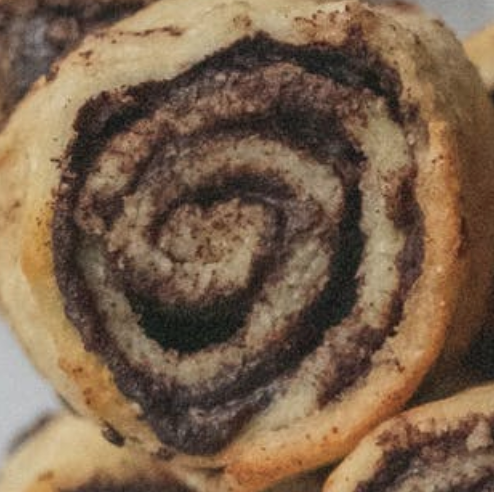
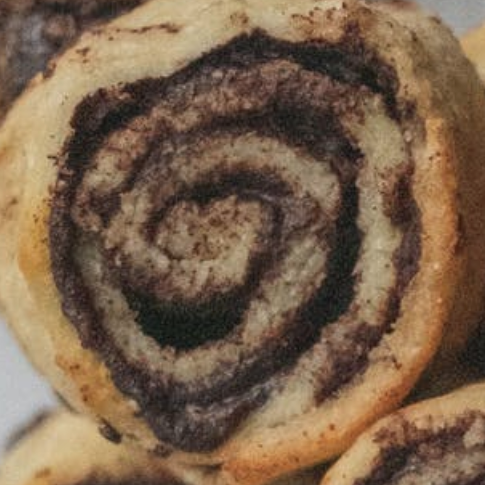
Added grid and formatting for browsing rolls, cropped single roll images to be squares in order to have perfect circle images of the rolls

diff --git a/homework_5/productbrowsing.html b/homework_5/productbrowsing.html
@@ -16,12 +16,12 @@
         <nav>
             <ul>
                 <li><a href="base.html"><img id="logo" src="images/logo.png" alt="shop_logo" height="60px"></a></li>
-                <li><a href="base.html">HOME</a></li>
-                <li id="selected_page"><a href="productbrowsing.html">SHOP ROLLS</a></li>
-                <li>ABOUT</li>
-                <li><img src="images/cart-icon.svg" alt="cart_icon" height="26px"></li>
+                <li class="nav_bar_options"><img src="images/cart-icon.svg" alt="cart_icon" height="26px"></li>
+                <li class="nav_bar_options">ABOUT</li>
+                <li class="nav_bar_options" id="selected_page"><a href="productbrowsing.html">SHOP ROLLS</a></li>
+                <li class="nav_bar_options"><a href="base.html">HOME</a></li>
             </ul>
-            <br>
+            <br><br>
         </nav>
 
         <header>
@@ -31,6 +31,51 @@
             <button type="button" id="dense_button" class="viewOptions">DENSE</button>
             <hr>
         </header>
+
+        <browsepage>
+            <div class="roll blackberry">
+                <br>
+                <img class="single_roll_image" src="images/main-close.png" alt="blackberry_roll">
+                <h3>THE BLACKBERRY</h3>
+                <h4>$6 <span class="price">PER ROLL</span></h4>
+            </div>
+
+            <div class="roll">
+                <br>
+                <img class="single_roll_image" src="images/main-close.png" alt="blackberry_roll">
+                <h3>THE BLACKBERRY</h3>
+                <h4>$6 <span class="price">PER ROLL</span></h4>
+            </div>
+
+            <div class="roll">
+                <br>
+                <img class="single_roll_image" src="images/main-close.png" alt="blackberry_roll">
+                <h3>THE BLACKBERRY</h3>
+                <h4>$6 <span class="price">PER ROLL</span></h4>
+            </div>
+
+            <div class="roll">
+                <br>
+                <img class="single_roll_image" src="images/main-close.png" alt="blackberry_roll">
+                <h3>THE BLACKBERRY</h3>
+                <h4>$6 <span class="price">PER ROLL</span></h4>
+            </div>
+
+            <div class="roll">
+                <br>
+                <img class="single_roll_image" src="images/main-close.png" alt="blackberry_roll">
+                <h3>THE BLACKBERRY</h3>
+                <h4>$6 <span class="price">PER ROLL</span></h4>
+            </div>
+
+            <div class="roll">
+                <br>
+                <img class="single_roll_image" src="images/main-close.png" alt="blackberry_roll">
+                <h3>THE BLACKBERRY</h3>
+                <h4>$6 <span class="price">PER ROLL</span></h4>
+            </div>
+
+        </browsepage>
     </div>
 </body>
 </html>

diff --git a/homework_5/style.css b/homework_5/style.css
@@ -8,9 +8,12 @@ html, body {
     margin: auto;
 }
 
+.nav_bar_options  {
+    float: right;
+}
+
 #logo {
     float: left;
-    margin-right: 700px;
 }
 
 #selected_page {
@@ -30,6 +33,7 @@ nav {
 ul {
     margin: 0;
     padding: 0;
+    background-color: #EEEE;
 }
 /* removes default display:block from list items so the navigation bar can be horizontal */
 ul li {
@@ -48,9 +52,15 @@ h1 {
     display: inline;
 }
 
-h2 {
+h2, h6 {
     font-weight: lighter;
     text-align: center;
+}
+
+h3 {
+    font-weight: bold;
+    text-align: center;
+    font-size: 30px;
 }
 
 header {
@@ -80,7 +90,7 @@ hr {
     margin-top: 50px;
     font-size: 53px;
     text-align: center;
-    font-family: Nunito;
+    font-family: Nunito, sans-serif;
     font-style: normal;
     font-variant: normal;
     float: right;
@@ -124,7 +134,7 @@ homepage {
     border: 1.5px solid black;
     text-align: center;
     padding: 2px 2px;
-    font-family: Nunito;
+    font-family: Nunito, sans-serif;
     float: right;
     margin-top: 30px;
 }
@@ -147,4 +157,29 @@ browsepage {
     justify-items: center;
     align-items: stretch;
     align-content: center;
+    grid-auto-rows: 1fr;
+    grid-auto-flow: column;
+}
+
+.single_roll_image {
+    width: 40%;
+    height: auto;
+    border: medium solid #B27338;
+    border-radius: 100%;
+    margn-top: 100px;
+}
+
+.price {
+    justify-content: space-between;
+    font-size: 15px;
+    font-weight: lighter;
+}
+
+.roll {
+    box-shadow: 0 3px 2px 0 rgba(0, 0, 0, 0.2);
+    background-color: #EEEE;
+    border: medium solid #A18484;
+    text-align: center;
+    padding: 5%;
+    border-radius: 40px;
 }

diff --git a/homework_5/base.html b/homework_5/base.html
@@ -16,12 +16,12 @@
         <nav>
             <ul>
                 <li><a href="base.html"><img id="logo" src="images/logo.png" alt="shop_logo" height="60px"></a></li>
-                <li id="selected_page"><a href="base.html">HOME</a></li>
-                <li><a href="productbrowsing.html">SHOP ROLLS</a></li>
-                <li>ABOUT</li>
-                <li><img src="images/cart-icon.svg" alt="cart_icon" height="26px"></li>
+                <li class="nav_bar_options"><img src="images/cart-icon.svg" alt="cart_icon" height="26px"></li>
+                <li class="nav_bar_options">ABOUT</li>
+                <li class="nav_bar_options"><a href="productbrowsing.html">SHOP ROLLS</a></li>
+                <li class="nav_bar_options" id="selected_page"><a href="base.html">HOME</a></li>
             </ul>
-            <br>
+            <br><br>
         </nav>
 
         <header>
@@ -37,7 +37,6 @@
         <homepage>
             <section class="leftImage"><img src="images/rolls-1.jpg" alt="image_of_rolls_1" height="270px"></section>
             <section class="middleImage"><img src="images/rolls-2.webp" alt="image_of_rolls_2" height="270px"></section>
-<!--            <span class="verticalLine"></span>-->
             <section class="rightImage"><img src="images/rolls-5.png" alt="image_of_rolls_5" height="270px"></section>
         </homepage>
 
